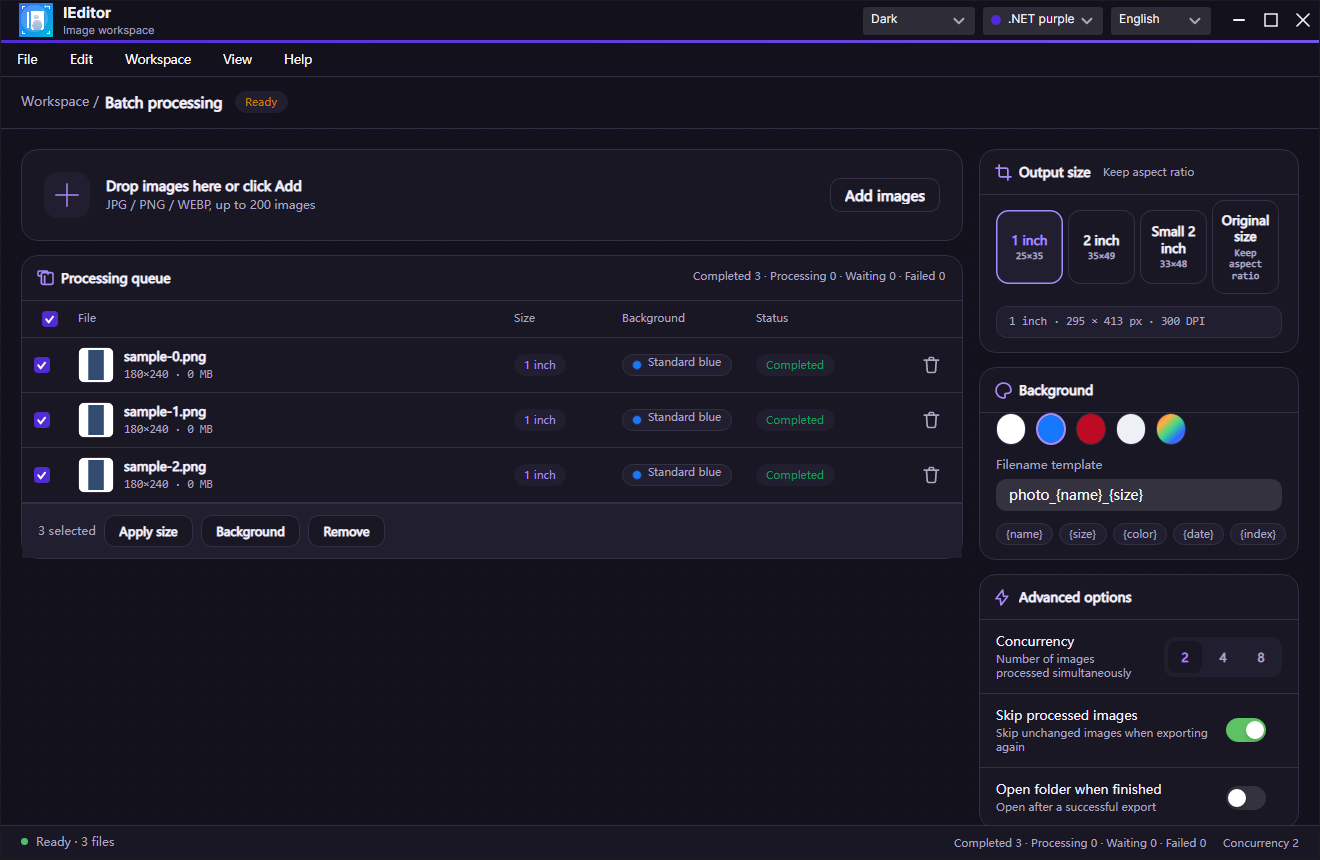
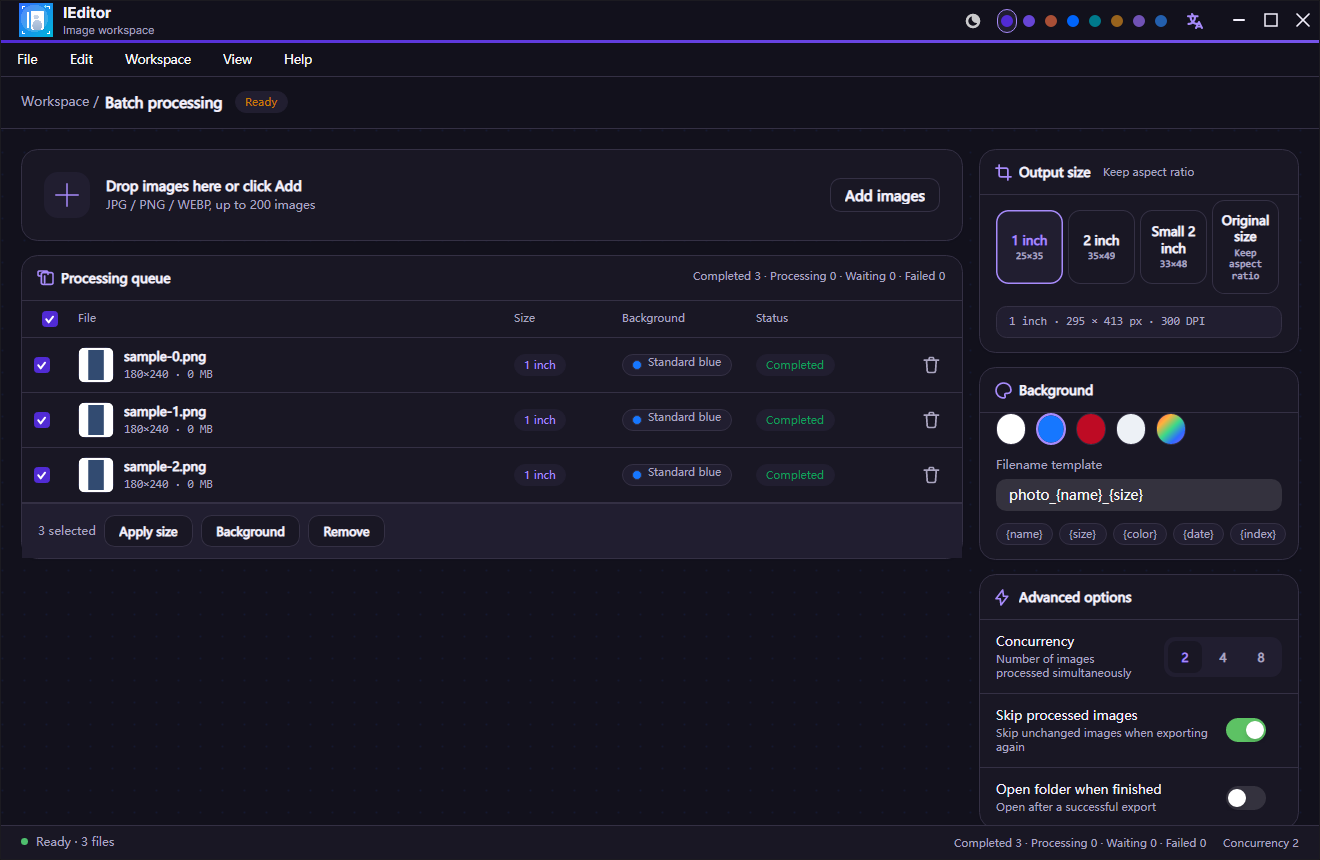
docs: 更新原生界面证据与 0.3.8 发布说明

Changed region(s): [[0.6523, 0.0, 0.9318, 0.0605]]

diff --git a/docs/UI-VERIFICATION.md b/docs/UI-VERIFICATION.md
@@ -1,6 +1,6 @@
-# IEditor 0.3.7 界面与行为复核
+# IEditor 0.3.8 界面与行为复核
 
-验证基线：Windows x64，1320 × 860，简体中文和英文；CodeWF.Avalonia 12.1.4.20、CodeWF.Toolkit 1.0.0.19。原型与应用均使用同一组 Studio 主题资源。
+验证基线：Windows x64，1320 × 860，简体中文和英文；CodeWF.Avalonia 12.1.4.21、CodeWF.Toolkit 1.0.0.19。原型与应用均使用同一组 Studio 主题资源。
 
 ## 可复现检查
 
@@ -39,3 +39,5 @@
 Windows x64 正式 NativeAOT 发布成功；独立 NativeAOT 界面验证器编译并实际运行成功，退出码为 0，生成 26 张截图及对应布局坐标。README 中的两张工作区图片来自该验证器通过 Skia 渲染的真实应用视图。
 
 Ursa/Semi 的裁剪与 AOT 分析告警保留可见，不通过屏蔽告警宣称兼容。锁屏期间不进行人工桌面验收；离屏实际渲染不能代替文件选择器、系统拖放、窗口拖动和安装器交互。Linux/macOS 的原生结果以对应 GitHub Actions 任务为准。
+
+标题栏新增交互验收：实际触发 Ursa 内部按钮完成系统 → 浅色 → 深色 → 系统循环，保持当前 Studio 配色；打开语言图标菜单并执行实际选项，核对唯一全局语言及宿主设置同步。按钮内部提示通过作用域内的 T4 资源绑定动态更新，并在同一窗口反复切换语言时检查文本。

diff --git a/.github/release-notes/v0.3.8.md b/.github/release-notes/v0.3.8.md
@@ -1,0 +1,6 @@
+# IEditor v0.3.8
+
+- 标题栏外观入口改为 Ursa 三态主题按钮、八套配色圆点与语言图标菜单，移除重复下拉框；设置页和持久化配置保持同步。
+- 三态按钮置于独立主题作用域，通过共享转换器连接 Studio 配色，切换系统、浅色和深色时保留当前配色。
+- 按钮内部提示复用宿主 T4 资源，同一窗口切换语言时同步更新。
+- 同步三个工作区的离线单文件原型，新增真实主题按钮循环和语言弹出菜单验证。

diff --git a/README.md b/README.md
@@ -2,7 +2,7 @@
 
 # IEditor 证件照处理
 
-基于 Avalonia 的本地证件照工具。当前版本：**0.3.7**。
+基于 Avalonia 的本地证件照工具。当前版本：**0.3.8**。
 
 - 单张处理：一寸、二寸及自定义毫米尺寸，DPI、背景颜色、旋转、镜像、缩放、拖动与原图对比，支持 JPG、PNG 导出。
 - 背景处理：支持去除均匀纯色背景；复杂发丝和复杂场景不在当前算法范围内。
